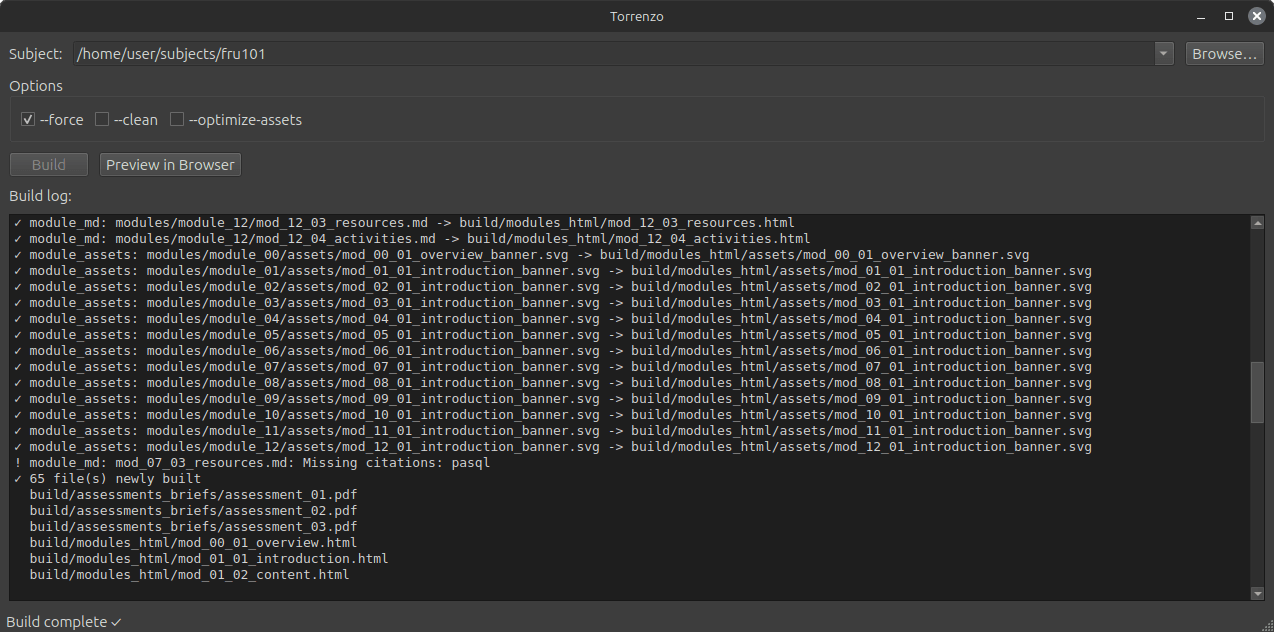
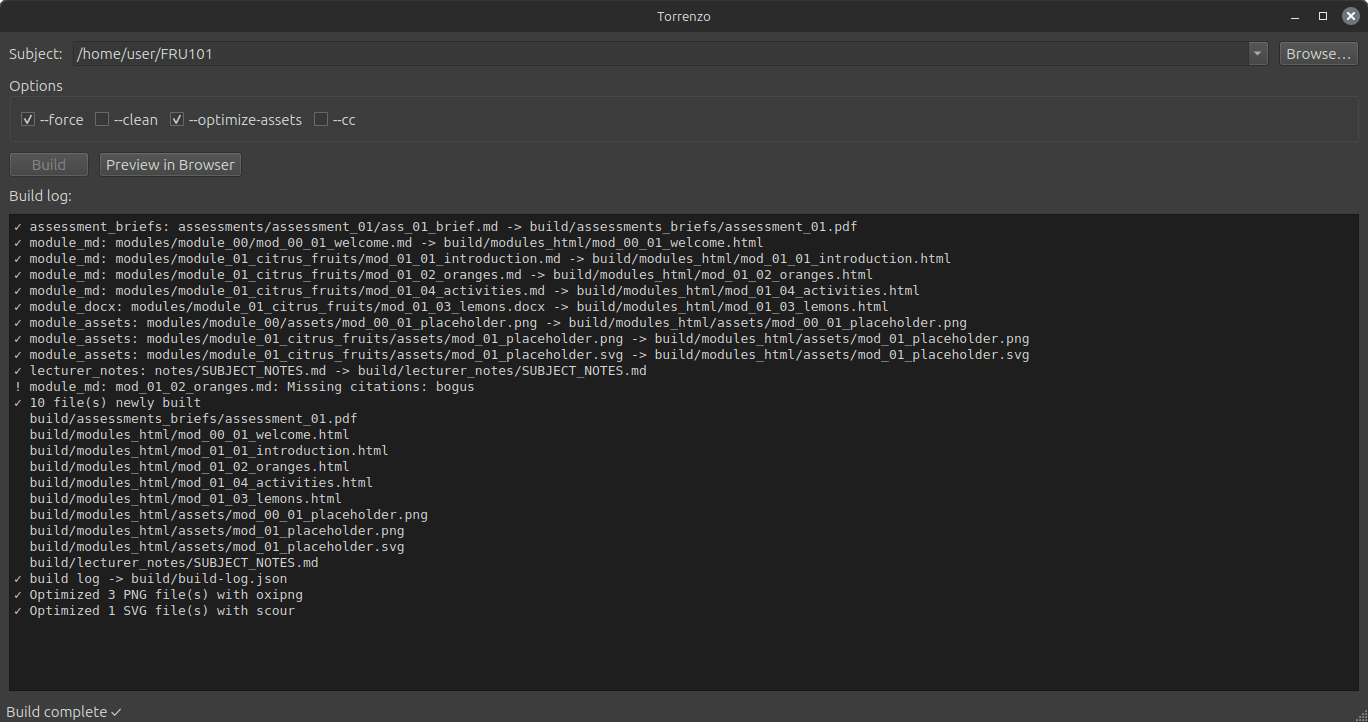
- update gui screenshot

diff --git a/README.md b/README.md
@@ -49,7 +49,7 @@ Torrenzo includes a desktop application for point-and-click builds.
 **Features:**
 
 - **Directory picker** with history (remembers your subject folders)
-- **Build options** as checkboxes: `--force`, `--clean`, `--optimize-assets`
+- **Build options** as checkboxes: `--force`, `--clean`, `--optimize-assets`, `-cc`
 - **Live build log** displayed in the window
 - **Preview in Browser** button opens the build output for review
 
